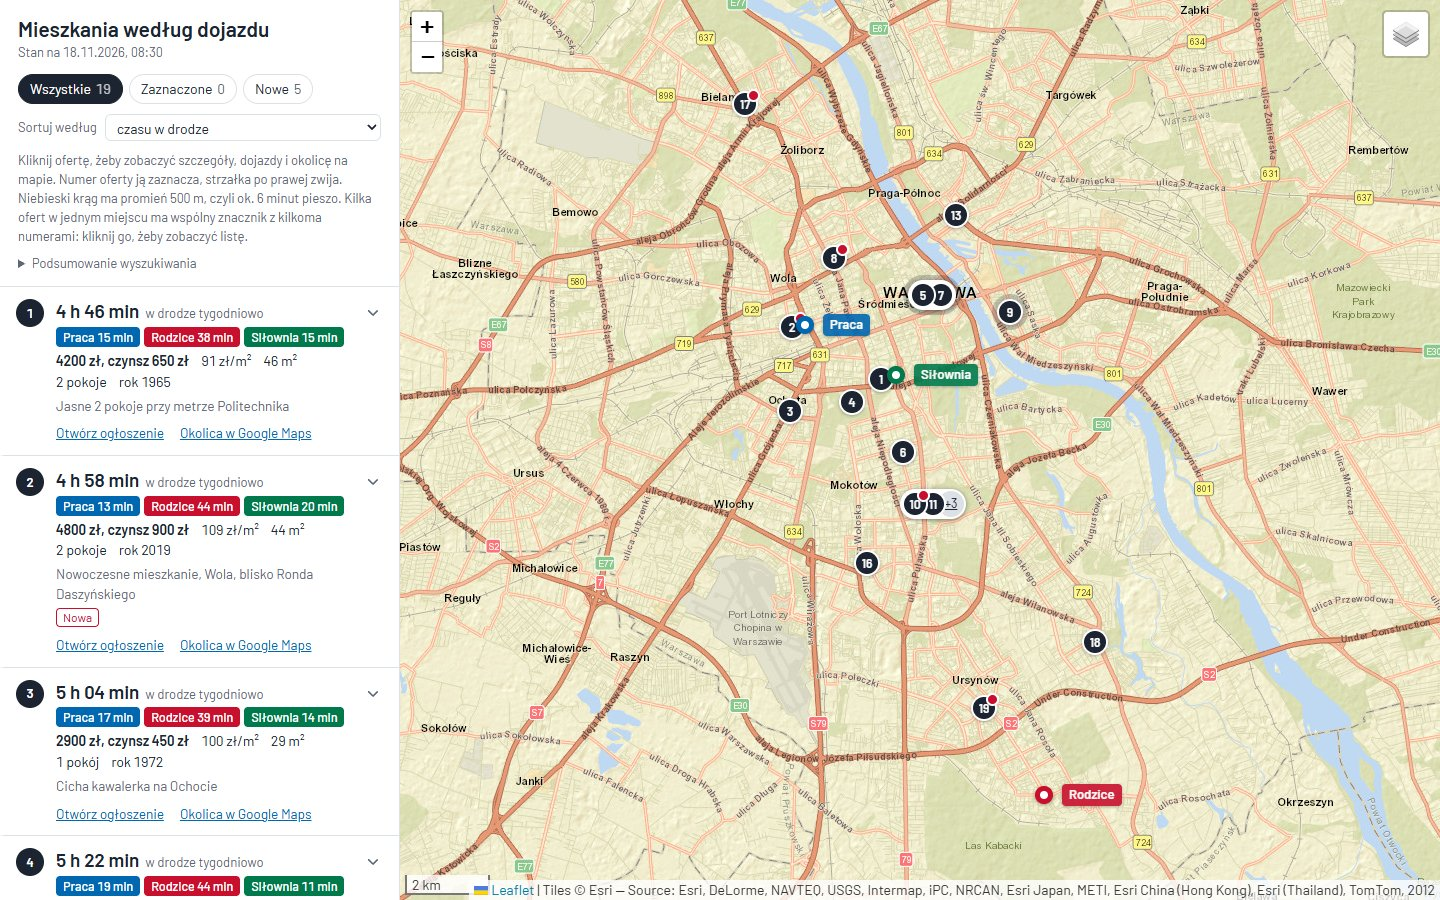
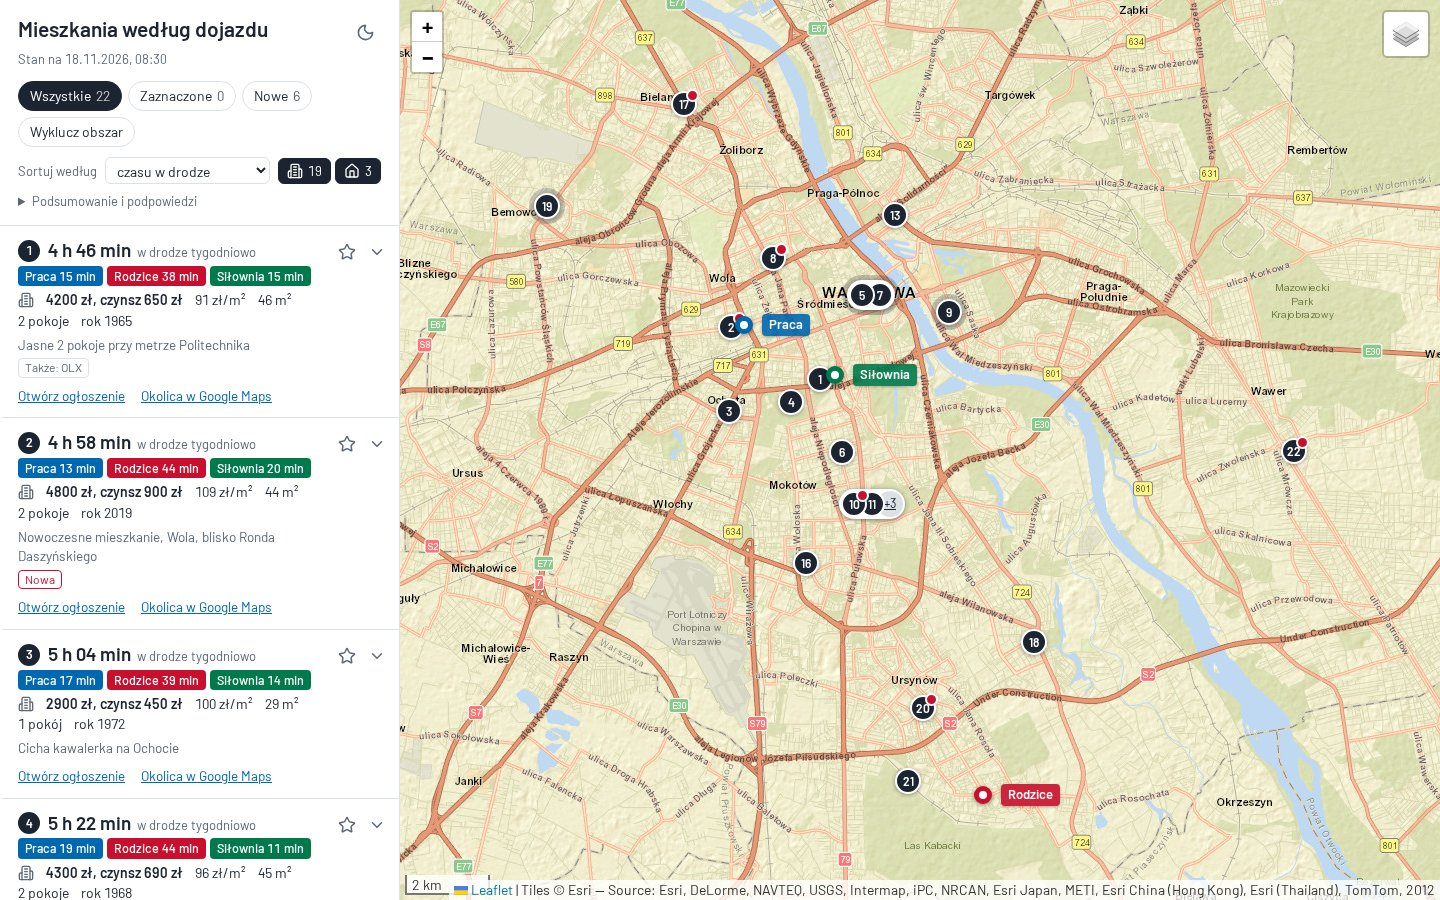
docs: odświeżone zrzuty ekranu, nowe: obszar wykluczony i motyw nocny
Wszystkie zrzuty z nowego interfejsu (nagłówek karty z numerem i gwiazdką,
filtr mieszkania/domy, wykluczanie obszarów, zwijane sekcje). Dwa nowe
w README: wykluczanie obszarów i motyw nocny.

diff --git a/README.md b/README.md
@@ -213,11 +213,15 @@ Podpowiedzi o obsłudze są pod „Podsumowanie i podpowiedzi” w nagłówku li
 
 Przycisk ze słońcem lub księżycem obok tytułu przełącza motyw. Domyślnie strona podąża za ustawieniem systemu, a Twój wybór jest zapamiętany. W motywie nocnym ciemne są panel boczny i dymki na mapie. Sama mapa, znaczki i przyciski mapy zostają takie jak w dziennym, żeby nie tracić nazw ulic i szczegółów.
 
+![Motyw nocny: ciemny panel boczny z rozwiniętą ofertą i ciemne dymki, mapa i znaczki bez zmian](docs/img/motyw-nocny.jpg)
+
 ### Wykluczanie obszarów
 
 Przycisk „Wyklucz obszar” w rzędzie filtrów (obok „Wszystkie”, „Zaznaczone” i „Nowe”) włączasz lasso: przytrzymaj przycisk myszy, zakreśl na mapie obszar, który Cię nie interesuje (np. okolice lotniska), i puść. Obszar zaznacza się lekką czerwienią, a oferty z jego wnętrza znikają z listy i mapy. Kliknięcie obszaru pozwala go usunąć, „Cofnij ostatni” i „Usuń wszystkie” też działają. Esc kończy rysowanie.
 
 Obszary zapisują się od razu w `wykluczenia.json`. `dojazdy.py` czyta ten plik, więc przy kolejnym uruchomieniu nie liczy dla takich ofert czasów ani tras i nie zapisuje ich zdjęć ani parametrów. Otodom nie podaje współrzędnych w wynikach wyszukiwania, więc karta nowej oferty jest otwierana jeszcze raz, żeby sprawdzić, czy leży w obszarze: to jedyny koszt, a Google nie jest pytany wcale. Obszary można rysować przed pierwszym uruchomieniem `dojazdy.py`.
+
+![Obszar wykluczony zakreślony lassem: czerwony prostokąt na mapie, a dwie oferty z jego wnętrza zniknęły z listy; w nagłówku licznik obszarów i ukrytych ofert](docs/img/wykluczanie.jpg)
 
 ### Sortowanie i kilka ofert w jednym miejscu
 
